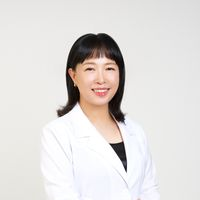
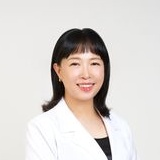
Make images clear

diff --git a/src/components/Section3.jsx b/src/components/Section3.jsx
@@ -58,11 +58,15 @@ export default function Section3() {
               key={index}
               className="flex flex-col items-center hover:scale-105 transition-transform"
             >
-              <img
-                src={expert.image}
-                alt={expert.name}
-                className="w-32 h-32 rounded-full object-cover shadow-lg mb-3"
-              />
+              {/* 이미지 감싸는 박스 추가 */}
+              <div className="w-36 h-36 rounded-full overflow-hidden shadow-lg mb-3">
+                <img
+                  src={expert.image}
+                  alt={expert.name}
+                  className="w-full h-full object-cover scale-110 translate-y-1"
+                />
+              </div>
+              
               <span className="text-lg font-medium text-gray-700">
                 {expert.name}
               </span>

diff --git a/src/components/Section2.jsx b/src/components/Section2.jsx
@@ -134,7 +134,7 @@ const Section2 = () => {
                 <img
                   src={selectedProduct.image}
                   alt={selectedProduct.name}
-                  className="w-full aspect-[3/4] object-cover rounded-xl mb-8"
+                  className="w-[200px] h-[260px] object-contain rounded-xl mb-8"
                 />
               </Link>
 
